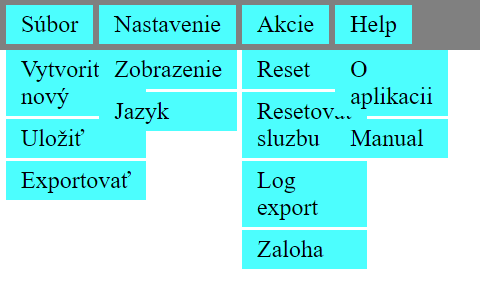
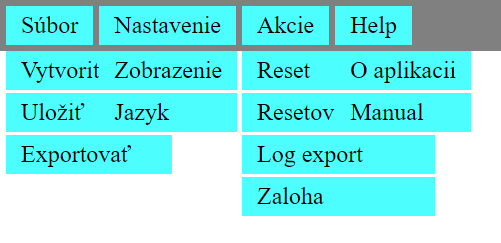
Doplnenie riesenia do dropdownmenu

diff --git a/css/dropdownmenu/index.html b/css/dropdownmenu/index.html
@@ -22,7 +22,6 @@
             padding: 4px 10px;
             margin: 2px;
             white-space: nowrap;
-
         }
 
         li {
@@ -31,61 +30,13 @@
         }
 
         ul ul {
+            display: block;
             position: absolute;
-            display: none;
-            border: 1px solid black;
-            background-color: #ebebeb;
-            margin-top: -1px;
         }
 
-        /*Druha uroven*/
-        li:hover > ul {
-            display: flex;
-            flex-direction: column;
-        }
-        ul ul ul{
-            top: 0;
-            left: 100%
-        }
-
-        /*indikator*/
-        ul ul span:not(:only-child)::after
-        {
-            color: blue;
-            content: "»";
-            padding: 3px 3px 3px 10px;
-        }
-
-        /* Zafarbenie vyberu */
-        li:hover > span {
-            color: red;
-            background-color: yellow;
-        }
-
-        /* Dodatocne */
-        span {
-            background-color: transparent
-        }
-
-        #menu > ul > li > span {
-            background-color: #ebebeb;
-        }
-
-        #menu > ul > li:hover > span {
-            color: red;
-            background-color: yellow;
-        }
-
-        ul ul {
-            background-color: #ebebeb;
-        }
         ul ul ul {
-            background-color: #bdbdbd;
+            display: none;
         }
-        ul ul ul ul {
-            background-color: #949494;
-        }
-
     </style>
 </head>
 <body>

diff --git a/css/dropdownmenu/riesenie.md b/css/dropdownmenu/riesenie.md
@@ -11,13 +11,14 @@ Cieľom úlohy je vytvoriť roletové menu aké obsahujú bežne desktopové apl
 Menu musí spĺňať nasledovné:
 
 1. Prvá úroveň je vždy zobrazená na vrchu stránky
-2. Ďalšie úrovne menu sú viditeľne iba ak ich používateľ aktivuje kuzorom (viď. gif hore)
-3. Vizuálne indikujte či daná položka obsahuje podmenu
-4. Zvýraznite, aké položky menu sú aktivované (viď. gif hore - zvýraznenie na žlto) 
-5. Jednotlivé sub-menu zobrazte s jemne odlišnou farbou pozadia. Napr. stmavovaniem (viď. gif hore).
+2. Ďalšie úrovne menu sú viditeľne iba ak ich používateľ aktivuje kurzorom (viď. gif hore)
+3. Vizuálne indikujte či daná položka obsahuje sub-menu
+4. Zvýraznite, aké položky menu sú aktivované (viď. gif hore – zvýraznenie na žlto) 
+5. Jednotlivé sub-menu zobrazte s jemne odlišnou farbou pozadia. Napr. stmavovaním (viď. gif hore).
 
 
-Počiatočný HTML dokument obsahuje toto menu zadefinované pomocou štruktúry `<ul>` elementov a vyzerá nasledovne:
+Počiatočný `HTML` dokument obsahuje menu zadefinované pomocou štruktúry elementov a vyzerá nasledovne:
+
 ```html
  <div id="menu">
         <ul>
@@ -41,15 +42,19 @@ Počiatočný HTML dokument obsahuje toto menu zadefinované pomocou štruktúry
                                 <span>Web</span>
     ...
 ```
-Všimnite si však, že samotné `<ul>` a `<li>` definujú _iba_ štruktúru a položky samotné sú definované ako `<span>`. Vnorenie jednotlivých `<ul>` v `<li>` teda definuje ktorý `<ul>` je sub-menu ktorého menu.
+
+Všimnite si však, že samotné `<ul>` a `<li>` definujú _iba_ štruktúru. Obsah položky je definované ako obsah `<span>`. Vnorenie jednotlivých `<ul>` v `<li>` definuje ktorý `<ul>` je sub-menu ktorého menu.
 
 Pre riešenie použite výlučne iba CSS.
 
 # Riešenie
 
-> doplnit uvod a vatu #TODO> MM
+Riešenie je rozelené do následovných pod-kapitol:
 
-## Prvá úroveň menu
+1. [Prvá úroveň menu](#prvá-úroveň-menu)
+2. [Záverečné formátovanie](#záverečné-formátovanie)
+
+## Prvá úroveň menu 
 
 Prvý krok spočíva v skrytí všetkých vnorených `<ul>`, teda okrem prvej úrovne. Selektor, ktorým skryjeme všetky vnorené `<ul>` bude `ul ul`. Celkovo CSS bude nasledovné:
 
@@ -147,9 +152,11 @@ Jednú výnimku bude tvoriť formátovanie `<ul>` druhej a ďalšej úrovne, kto
 
 Pre odstránenie problémov s odsadeniami môžeme v našom prípade urobiť tzv. _globálny reset odsadení_ v `CSS`. Ten používa selektor `*` a ako vlastnosti mu dáme vnútorné a vonkajšie odsadenie na hodnotu `0`. Selektor `*` sa následne použije ako hodnota pre všetky štýlovania. Výledok je taký, že teraz musíme definovať odsadenia iba tam, kde ich skutočne chceme.
 
-Následne ešte musíme upraviť zobrazenie `<li>`, tak aby sa nezobrazovali ako položky menu a elementy `<span>` aby sa zobrazovali ako blokové značky (inak im nebude možné zadefinovať rozmer a odsadenia).
+Následne ešte musíme upraviť zobrazenie `<li>`, tak aby sa nezobrazovali ako položky menu a elementy `<span>` aby sa zobrazovali ako blokové značky (inak im nebude možné zadefinovať rozmer a odsadenia). 
+ 
+Vzhľadom na to, že výsledkom úlohy je mnu, bude dobrý nápad zamedziť automatické zalamovanie textu v `<span>`. To urobíme tak, že `<span>` doplníme `CSS` vlastnosť `white-space: nowrap;`.
 
-Vzhľadom na to, že výsledkom úlohy je mnu, bude dobrý nápad zamedziť automatické zalamovanie textu v `<span>`. To urobíme tak, že `<span>` doplníme `CSS` vlastnosť `white-space: nowrap;`. CSS bude teda nasledovné:
+CSS bude teda nasledovné:
 
 ```css
 * {
@@ -180,18 +187,21 @@ ul ul {
     display: none;
 }
 ```
-Menu by sa malo zobrazovať momentálne takto:
+Menu bude vyzerať:
 
-![](.riesenie_images/`menu-prva`-uroven.png)
+![](.riesenie_images/menu-prva-uroven.png)
 
 ## Druhá úroveň
 
 Nasleduje vytvorenie štýlovania pre druhú úroveň. Pre lepší "debug" `CSS` si musíme najprv zobraziť prvú a druhú úroveň. To docielime tým, že upravíme obsah selektoru `ul ul` a doplníme skrytie všetkých `<ul>` úrovňe tri a viac, teda selektorom `ul ul ul`. Upravené `CSS` bude (zobrazené sú iba doplnené a zmenené CSS):
 ```css
+li {
+    position: relative;
+    display: block;
+}
 ul ul {
     display: block;
 }
-
 ul ul ul {
      display: none;
 }
@@ -209,9 +219,11 @@ li {
     position: relative;
     display: block;
 }
-
 ul ul {
-    position: absolute;
+    display: block;
+    position: absolute; 
+}
+ul ul ul {
     display: none;
 }
 ```
@@ -231,8 +243,6 @@ ul ul {
     border: 1px solid black;
     background-color: burlywood;
 }
-/*Druha uroven*/
-
 li:hover > ul {
     display: flex;
     flex-direction: column;
@@ -321,7 +331,7 @@ Zmenu aplikujem vyslovanie na `<span>`, ktorý je priamym potomkom `<li>`, nad k
 Výsledok funguje nasledovne:
 ![](.riesenie_images/menu-fung-04.gif)
 
-## Záverečné formátvanie
+## Záverečné formátovanie
 
 Aby sme menu zobrazili krajšie vykonáme nasledovné úpravy:
 
